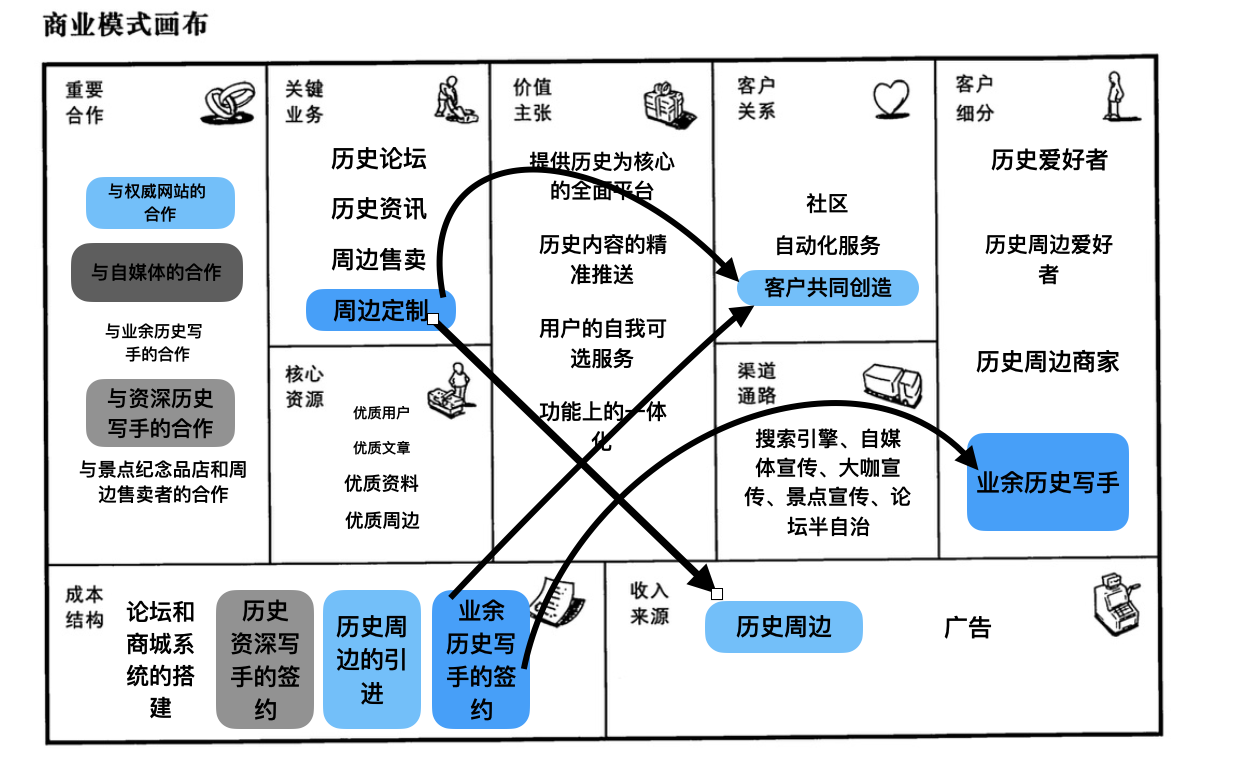
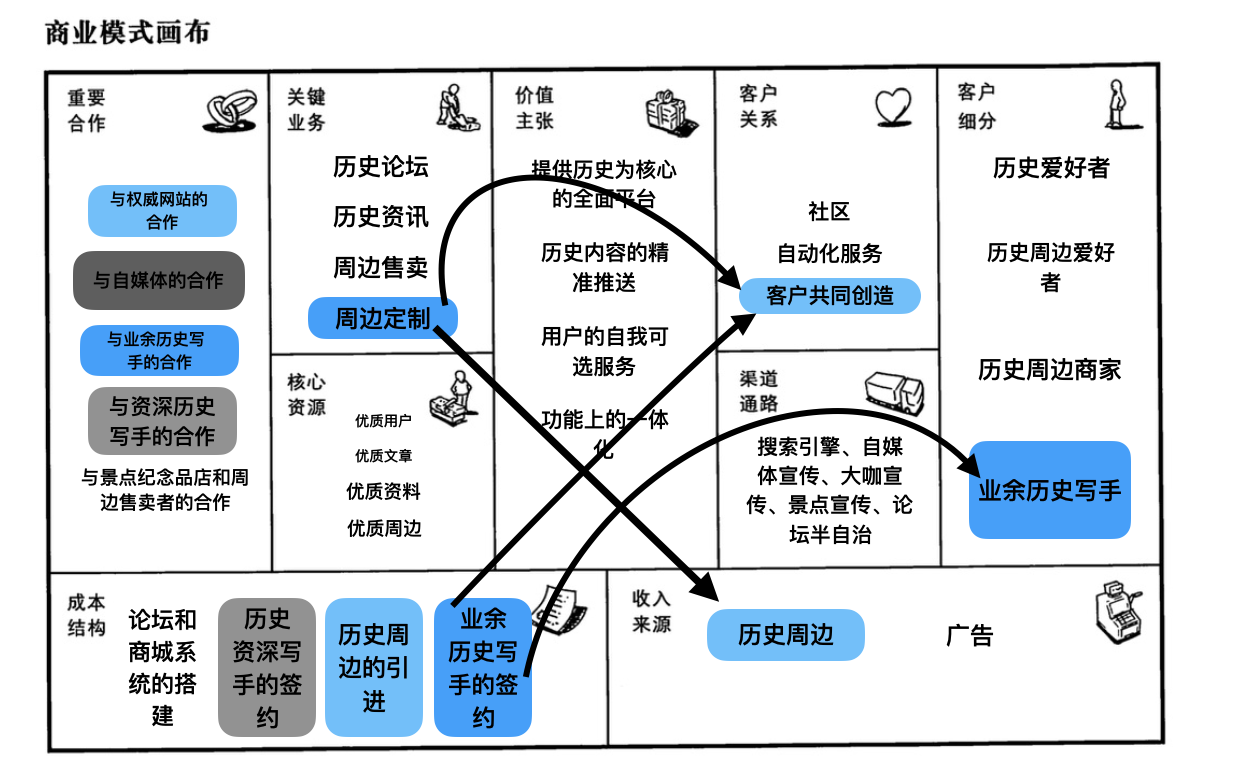
update png

Changed region(s): [[0.0312, 0.0, 0.9375, 1.0], [0.75, 0.7889, 0.8125, 0.8496]]

diff --git a/第三轮大作业/Base.md b/第三轮大作业/Base.md
@@ -639,7 +639,7 @@
 
 ### 4.3 新加入或修改过的模块要点与模块之间的依赖关系
 
-- 新增的“历史定制周边”这一关键业务，需要将旧有成本结构中历史周边制作及引进修改为历史周边的引进、同时依赖于客户关系中提升过的客户共同创造，三个要素相互关联，共同为提效降成本以及营造更好的论坛自治氛围服务，同时强化了以历史为核心的价值主张
+- 新增的“历史定制周边”这一关键业务，需要将旧有成本结构中历史周边制作及引进修改为历史周边的引进、同时依赖于客户关系中提升过的客户共同创造，三个要素相互关联，共同为提效降成本以及营造更好的论坛自治氛围服务，同时强化了以历史为核心的价值主张。
 - 重要合作中增加了业余历史写手的合作，而削弱了与历史科普者的合作，这种修改的依赖是内敛于重要合作模块内部的，二者合作竞争相似的资源（资金）的前提下下，对各方合作的倾斜只能是此消彼长，彼此掣肘，增强了对业余写手大的合作旨在增大产量，明确了我们论坛最终面向大众的定位，为“以历史为核心”的价值主张拓宽通道，并由于业余写手可以源自普通用户的特性，贯穿客户关系中**提升过的**客户共同创造链路直接面向对应**新增的客户细分**业余历史写手。
 - 与业余写手的合作，自然带来成本结构上新增的与业余历史写手签约相关的费用。
 
